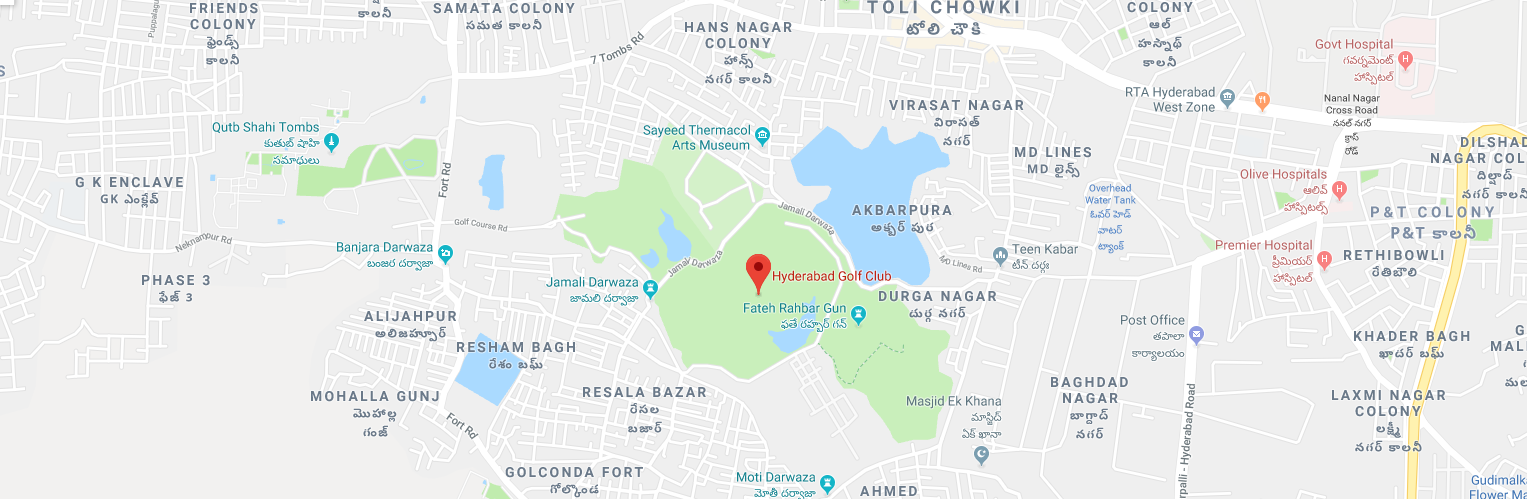
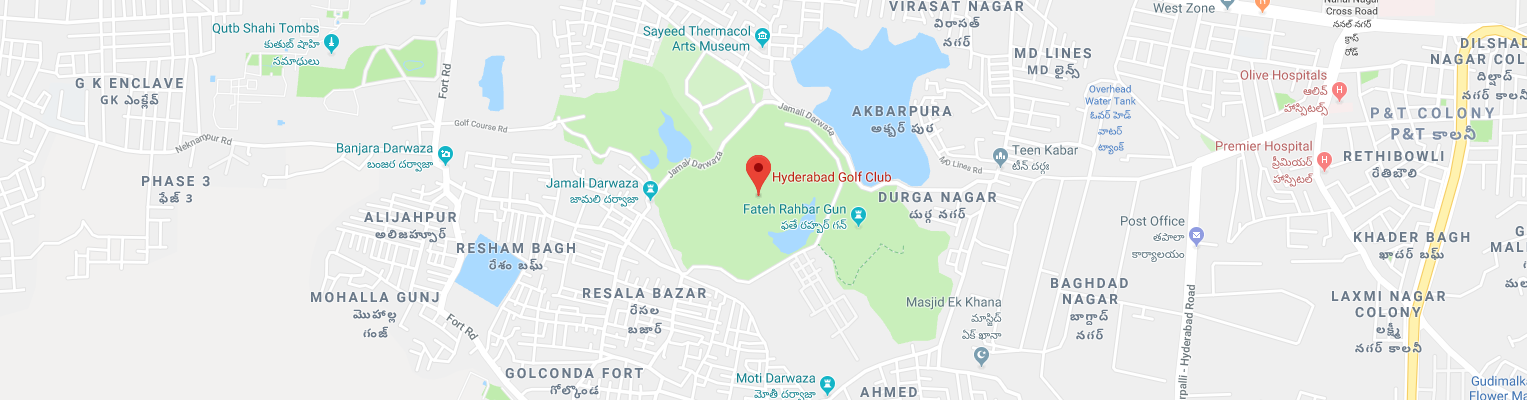
Fix : Map image is fixed

diff --git a/src/app/layout/layout.component.html b/src/app/layout/layout.component.html
@@ -146,7 +146,7 @@
             </div>
         </div>
         <div *ngIf="!sharedServ.mobileQuery.matches" style="margin-top:20px" class="col-12">
-            <img style="height:500px;width:inherit" src="../../assets/map.png" alt="Card image cap">
+            <img style="height:350px;width:inherit" src="../../assets/map.png" alt="Card image cap">
         </div>
     </div>
 </div>
